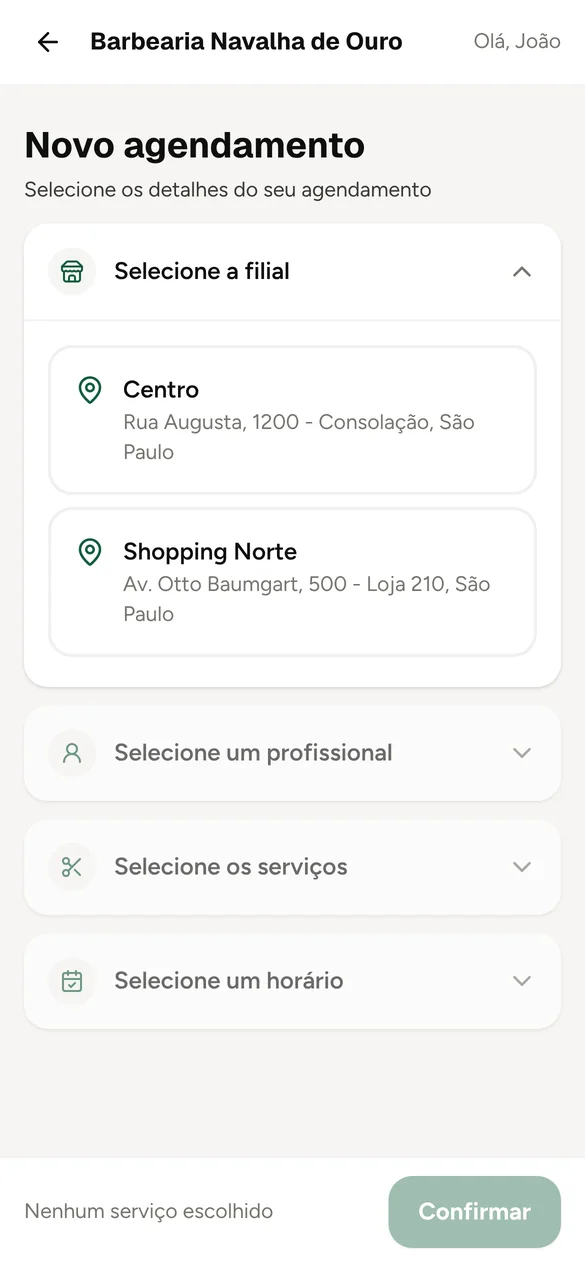
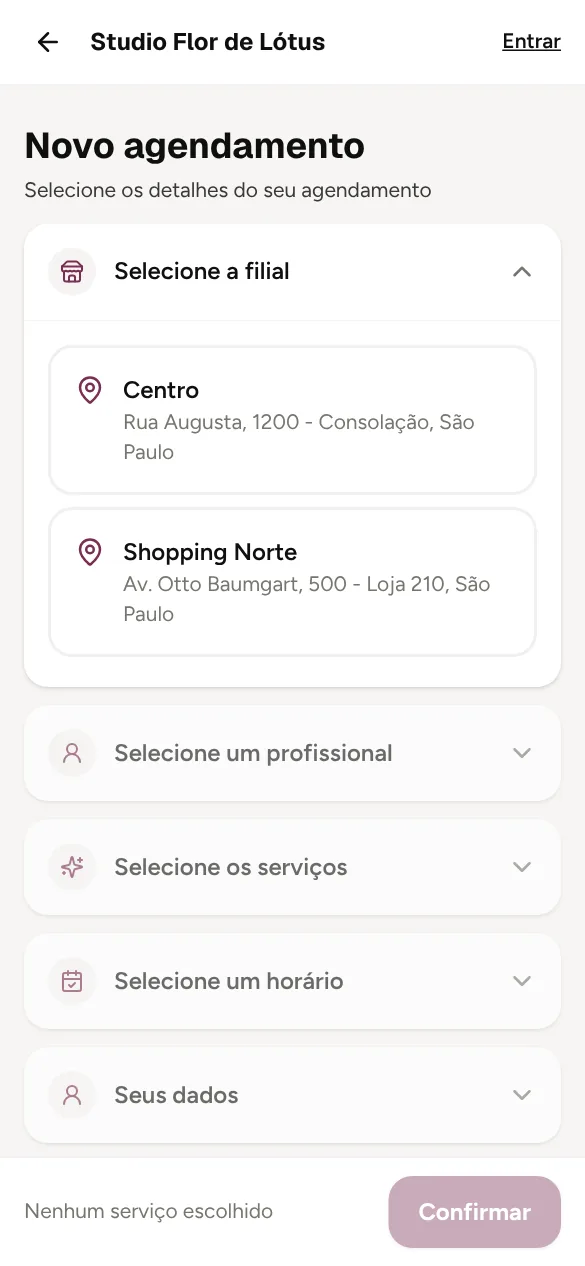
Identidade visual do Klareza Beauty: vinho rosé e símbolo K-pétala
- Paleta vinho rosé (#7a2e52 / #c4588a) no painel, na landing e na cor padrão dos salões
- Novo símbolo: K com braços em pétalas e um brilho (favicon, ícone do app, logo)
- Ícone de brilho no lugar da tesoura e faixa rosé no lugar do poste de barbearia
- Novas imagens da landing tiradas do sistema com os dados de salão
- Corrige concordância de "o salão" nas mensagens e na landing

Claude-Session: https://claude.ai/code/session_01JAAgPxZBPnePcSZkZjepc5

diff --git a/src/app/b/[slug]/agendar/Agendar.tsx b/src/app/b/[slug]/agendar/Agendar.tsx
@@ -2,7 +2,7 @@
 
 import Link from "next/link";
 import { useEffect, useMemo, useState, useTransition } from "react";
-import { CalendarCheck, CalendarPlus, Check, ChevronDown, Clock, MapPin, Scissors, Star, Store, UserRound } from "lucide-react";
+import { CalendarCheck, CalendarPlus, Check, ChevronDown, Clock, MapPin, Sparkles, Star, Store, UserRound } from "lucide-react";
 import { formatarDinheiro, linkWhatsApp } from "@/lib/formato";
 import { FUSO, criarDataHora } from "@/lib/tempo";
 import { type Confirmacao, agendar, buscarHorarios } from "../actions";
@@ -229,7 +229,7 @@ export function Agendar({
         </div>
       </Etapa>
 
-      <Etapa n={2} aberta={aberta === 2} feita={escolhidos.length > 0} bloqueada={profissionalId === null} icone={Scissors} titulo="Selecione os serviços" resumo={selecionados.length ? selecionados.map((s) => s.nome).join(", ") : null} abrir={() => profissionalId !== null && setAberta(2)}>
+      <Etapa n={2} aberta={aberta === 2} feita={escolhidos.length > 0} bloqueada={profissionalId === null} icone={Sparkles} titulo="Selecione os serviços" resumo={selecionados.length ? selecionados.map((s) => s.nome).join(", ") : null} abrir={() => profissionalId !== null && setAberta(2)}>
         <div className="space-y-2">
           {disponiveis.map((s) => {
             const marcado = escolhidos.includes(s.id);
@@ -370,7 +370,7 @@ export function Agendar({
 function Etapa({
   n, aberta, feita, bloqueada, icone: Icone, titulo, resumo, abrir, children,
 }: {
-  n: number; aberta: boolean; feita: boolean; bloqueada?: boolean; icone: typeof Scissors; titulo: string; resumo: string | null; abrir: () => void; children: React.ReactNode;
+  n: number; aberta: boolean; feita: boolean; bloqueada?: boolean; icone: typeof Sparkles; titulo: string; resumo: string | null; abrir: () => void; children: React.ReactNode;
 }) {
   return (
     <section className={`overflow-hidden rounded-2xl bg-white shadow-sm transition ${bloqueada ? "opacity-60" : ""}`}>
@@ -399,7 +399,7 @@ function CartaoProfissional({ nome, foto, destaque, selecionado, onClick }: { no
           <img src={foto} alt="" className="size-full object-cover" />
         ) : (
           <span className="grid size-full place-items-center bg-fundo text-couro-300">
-            {nome === "Sem preferência" ? <Scissors className="size-8" /> : <UserRound className="size-10" />}
+            {nome === "Sem preferência" ? <Sparkles className="size-8" /> : <UserRound className="size-10" />}
           </span>
         )}
         {destaque && (

diff --git a/src/app/page.tsx b/src/app/page.tsx
@@ -21,7 +21,7 @@ export const metadata: Metadata = {
     "Agendamento online, clube de assinatura com cobrança automática, comandas, caixa, estoque, financeiro e lembretes por WhatsApp. Tudo para o seu salão num lugar só.",
   openGraph: {
     title: "Klareza Beauty · Sistema para salões",
-    description: "O salão organizada de verdade: agenda online, clube de assinatura e o caixa batendo.",
+    description: "O salão organizado de verdade: agenda online, clube de assinatura e o caixa batendo.",
     type: "website",
     locale: "pt_BR",
     images: ["/landing/agenda.webp"],
@@ -98,7 +98,7 @@ export default async function Landing() {
         <p className="lp-surge font-mono text-xs tracking-wide text-[var(--lp-cinza)] uppercase" style={atraso(0)}>Sistema de gestão para salões</p>
         <h1 className="lp-titulo mt-6 text-[13vw] sm:text-[88px] lg:text-[112px]">
           <span className="lp-linha-mascara"><span style={atraso(0.05)}>O salão</span></span>
-          <span className="lp-linha-mascara"><span style={atraso(0.15)}>organizada</span></span>
+          <span className="lp-linha-mascara"><span style={atraso(0.15)}>organizado</span></span>
           <span className="lp-linha-mascara"><span style={atraso(0.25)}><span className="lp-serifa text-[var(--lp-verde)]">de verdade.</span></span></span>
         </h1>
         <div className="mt-10 flex flex-col gap-8 lg:flex-row lg:items-end lg:justify-between">
@@ -285,11 +285,11 @@ export default async function Landing() {
       <section className="bg-[var(--lp-tinta)] text-white">
         <div className="mx-auto max-w-7xl px-5 py-24 sm:py-36">
           <h2 data-revela className="lp-titulo text-[14vw] sm:text-[120px] lg:text-[150px]">
-            Bora <span className="lp-serifa text-[#7fc4a0]">conversar?</span>
+            Bora <span className="lp-serifa text-[#e7a3c3]">conversar?</span>
           </h2>
           <div data-revela style={atraso(0.15)} className="mt-10 flex flex-col gap-6 sm:flex-row sm:items-center sm:justify-between">
             <p className="max-w-md text-lg text-white/70">A gente mostra o sistema funcionando com os serviços e os preços do seu salão.</p>
-            <a href={demo} {...alvo} className="lp-btn bg-white px-8 py-4 text-base text-[var(--lp-tinta)] hover:bg-[#7fc4a0]">
+            <a href={demo} {...alvo} className="lp-btn bg-white px-8 py-4 text-base text-[var(--lp-tinta)] hover:bg-[#e7a3c3]">
               Falar no WhatsApp <ArrowUpRight className="size-5" />
             </a>
           </div>

diff --git a/src/app/marca/Simbolo.tsx b/src/app/marca/Simbolo.tsx
@@ -1,31 +1,35 @@
 /**
- * Símbolo do Klareza Beauty: um K em que as duas pernas são as lâminas de uma tesoura aberta,
- * presas num pino (o "parafuso" da tesoura). Só formas, sem fonte: escala de favicon a outdoor.
+ * Símbolo do Klareza Beauty: um K em que os dois braços são pétalas, com um brilho ao lado.
+ * Só formas, sem fonte: escala de favicon a outdoor.
  */
+export const SIMBOLO_FORMAS = {
+  haste: { x: 120, y: 106, width: 70, height: 300, rx: 35 },
+  petalaDeCima: "M196 252 Q337.5 236.4 392 104 Q253.5 123.6 196 252 Z",
+  petalaDeBaixo: "M196 262 Q334.5 281.9 384 412 Q245.5 390.1 196 262 Z",
+  brilho: "M418 222 Q418 256 452 256 Q418 256 418 290 Q418 256 384 256 Q418 256 418 222 Z",
+};
+
 export function Simbolo({ tamanho = 512, fundo = true, cor = "#ffffff", id = "s" }: { tamanho?: number; fundo?: boolean; cor?: string; id?: string }) {
+  const f = SIMBOLO_FORMAS;
   return (
     <svg width={tamanho} height={tamanho} viewBox="0 0 512 512" xmlns="http://www.w3.org/2000/svg" role="img" aria-label="Klareza Beauty">
       {fundo && (
         <>
           <defs>
             <linearGradient id={`${id}-g`} x1="0" y1="0" x2="1" y2="1">
-              <stop offset="0" stopColor="#23a06a" />
-              <stop offset="1" stopColor="#0d4029" />
+              <stop offset="0" stopColor="#c4588a" />
+              <stop offset="1" stopColor="#5e2140" />
             </linearGradient>
           </defs>
           <rect width="512" height="512" rx="118" fill={`url(#${id}-g)`} />
         </>
       )}
-      {/* haste do K */}
-      <rect x="126" y="106" width="66" height="300" rx="33" fill={cor} />
-      {/* lâmina de cima: costas retas, fio afinando até a ponta */}
-      <path d="M192 236 L380 104 C392 96 408 104 404 120 L238 288 Z" fill={cor} />
-      {/* lâmina de baixo até a argola da tesoura */}
-      <path d="M226 276 L320 356" stroke={cor} strokeWidth="54" strokeLinecap="round" />
-      <circle cx="358" cy="386" r="50" fill="none" stroke={cor} strokeWidth="30" />
-      {/* pino da tesoura, encostado na haste */}
-      <circle cx="216" cy="262" r="27" fill={cor} />
-      <circle cx="216" cy="262" r="10" fill={fundo ? "#145c3c" : "#0b0b0a"} />
+      <g transform="translate(-18 0)">
+        <rect {...f.haste} fill={cor} />
+        <path d={f.petalaDeCima} fill={cor} />
+        <path d={f.petalaDeBaixo} fill={cor} />
+        <path d={f.brilho} fill={cor} />
+      </g>
     </svg>
   );
 }

diff --git a/src/app/globals.css b/src/app/globals.css
@@ -4,21 +4,21 @@
   --font-sans: var(--fonte-texto), ui-sans-serif, system-ui, sans-serif;
   --font-display: var(--fonte-titulo), var(--fonte-texto), ui-sans-serif, sans-serif;
 
-  /* Paleta KlarezaBeauty: preto, branco e verde.
-     Os nomes antigos (couro = tons neutros escuros, latão = verde de destaque) foram mantidos. */
+  /* Paleta Klareza Beauty: preto, branco e vinho rosé.
+     Os nomes antigos (couro = tons neutros escuros, latão = cor de destaque, verde-claro = destaque sobre fundo escuro) foram mantidos. */
   --color-couro-950: #0b0b0a;
   --color-couro-900: #121211;
   --color-couro-800: #1f1f1d;
   --color-couro-700: #3a3a36;
   --color-couro-400: #77776f;
   --color-couro-300: #b3b3ab;
-  --color-latao-700: #0d4029;
-  --color-latao-600: #114d33;
-  --color-latao-500: #145c3c;
-  --color-latao-100: #e3efe8;
-  --color-latao-50: #f2f7f4;
-  --color-verde-claro: #7fc4a0;
-  --color-fundo: #f6f6f3;
+  --color-latao-700: #5e2140;
+  --color-latao-600: #6d2849;
+  --color-latao-500: #7a2e52;
+  --color-latao-100: #f6e3ec;
+  --color-latao-50: #fbf2f6;
+  --color-verde-claro: #e7a3c3;
+  --color-fundo: #f7f4f3;
   --color-tinta: #0f0f0e;
   --color-poste-vermelho: #c2412d;
   --color-poste-azul: #2f5d8a;
@@ -119,20 +119,17 @@
   @apply text-[11px] font-semibold tracking-[0.08em] text-couro-400 uppercase;
 }
 
-/* Assinatura visual: listras do poste de salao */
+/* Assinatura visual: faixa de brilho rosé (o nome "poste" ficou do KlarezaBarber) */
 @utility poste {
-  background-image: repeating-linear-gradient(
-    -45deg,
-    var(--color-poste-vermelho) 0 6px,
-    #fff 6px 10px,
-    var(--color-poste-azul) 10px 16px,
-    #fff 16px 20px
-  );
-  background-size: 28px 28px;
-  animation: girar-poste 1.6s linear infinite;
+  background-image: linear-gradient(-45deg, #7a2e52, #c4588a, #f2c4d6, #c4588a, #7a2e52);
+  background-size: 300% 300%;
+  animation: girar-poste 4s ease-in-out infinite alternate;
 }
 @keyframes girar-poste {
+  from {
+    background-position: 0% 50%;
+  }
   to {
-    background-position: 28px 0;
+    background-position: 100% 50%;
   }
 }

diff --git a/src/app/painel/comandas/[id]/page.tsx b/src/app/painel/comandas/[id]/page.tsx
@@ -1,7 +1,7 @@
 import type { Metadata } from "next";
 import Link from "next/link";
 import { notFound } from "next/navigation";
-import { AlertTriangle, Crown, MessageCircle, Package, Scissors, Ticket, Trash2 } from "lucide-react";
+import { AlertTriangle, Crown, MessageCircle, Package, Sparkles, Ticket, Trash2 } from "lucide-react";
 import { FormAcao } from "@/components/FormAcao";
 import { Cabecalho, Etiqueta, Secao } from "@/components/ui";
 import { alertasDaAnamnese, lerAnamnese } from "@/lib/anamnese";
@@ -109,7 +109,7 @@ export default async function Comanda({ params }: { params: Promise<{ id: string
                 {comanda.itens.map((i) => (
                   <li key={i.id} className="flex items-center gap-3 py-3">
                     <span className="grid size-9 shrink-0 place-items-center rounded-full bg-fundo text-couro-700">
-                      {i.tipo === "SERVICO" ? <Scissors className="size-4" /> : i.tipo === "PACOTE" ? <Ticket className="size-4" /> : <Package className="size-4" />}
+                      {i.tipo === "SERVICO" ? <Sparkles className="size-4" /> : i.tipo === "PACOTE" ? <Ticket className="size-4" /> : <Package className="size-4" />}
                     </span>
                     <div className="min-w-0 flex-1">
                       <p className="truncate font-medium">
@@ -166,7 +166,7 @@ export default async function Comanda({ params }: { params: Promise<{ id: string
                       {profissionais.map((b) => <option key={b.id} value={b.id}>Auxiliar: {b.nome} ({b.comissaoAuxiliarPct}%)</option>)}
                     </select>
                   )}
-                  <button className="btn-secundario"><Scissors className="size-4" /> Adicionar serviço</button>
+                  <button className="btn-secundario"><Sparkles className="size-4" /> Adicionar serviço</button>
                 </FormAcao>
               </Secao>
               <Secao titulo="Adicionar produto">

diff --git a/src/app/painel/servicos/page.tsx b/src/app/painel/servicos/page.tsx
@@ -1,6 +1,6 @@
 import type { Metadata } from "next";
 import Link from "next/link";
-import { Clock, EyeOff, Plus, Scissors } from "lucide-react";
+import { Clock, EyeOff, Plus, Sparkles } from "lucide-react";
 import { Avatar, Cabecalho, Etiqueta, Vazio } from "@/components/ui";
 import { exigirGestor } from "@/lib/auth";
 import { db } from "@/lib/db";
@@ -31,7 +31,7 @@ export default async function Servicos() {
         acoes={<Link href="/painel/servicos/novo" className="btn-destaque"><Plus className="size-4" /> Novo serviço</Link>}
       />
       {servicos.length === 0 && (
-        <Vazio icone={Scissors} titulo="Nenhum serviço cadastrado" texto="Comece pelos mais pedidos: manicure, design de sobrancelha e cílios." acao={<Link href="/painel/servicos/novo" className="btn-primario">Cadastrar serviço</Link>} />
+        <Vazio icone={Sparkles} titulo="Nenhum serviço cadastrado" texto="Comece pelos mais pedidos: manicure, design de sobrancelha e cílios." acao={<Link href="/painel/servicos/novo" className="btn-primario">Cadastrar serviço</Link>} />
       )}
 
       {categorias.map((cat) => (
@@ -44,7 +44,7 @@ export default async function Servicos() {
                   // eslint-disable-next-line @next/next/no-img-element
                   <img src={s.foto} alt="" className="size-20 shrink-0 rounded-xl object-cover" />
                 ) : (
-                  <span className="grid size-20 shrink-0 place-items-center rounded-xl bg-latao-50 text-latao-600"><Scissors className="size-7" /></span>
+                  <span className="grid size-20 shrink-0 place-items-center rounded-xl bg-latao-50 text-latao-600"><Sparkles className="size-7" /></span>
                 )}
                 <div className="min-w-0 flex-1">
                   <div className="flex items-start justify-between gap-2">

diff --git a/prisma/seed.ts b/prisma/seed.ts
@@ -14,14 +14,14 @@ function bannerSvg(fundo: string, destaque: string, titulo: string, sub: string)
 
 const DEMOS = [
   {
-    nome: "Studio Flor de Lótus", slug: "flor-de-lotus", email: "dono@flordelotus.com", cor: "#145c3c",
+    nome: "Studio Flor de Lótus", slug: "flor-de-lotus", email: "dono@flordelotus.com", cor: "#7a2e52",
     filiais: [
       { nome: "Centro", endereco: "Rua Augusta, 1200 - Consolação, São Paulo", profissionais: ["Carla Mendes", "Rafaela Lima"] },
       { nome: "Shopping Norte", endereco: "Av. Otto Baumgart, 500 - Loja 210, São Paulo", profissionais: ["Diana Souza"] },
     ],
   },
   {
-    nome: "Bella Lash & Nails", slug: "bella-lash", email: "dono@bellalash.com", cor: "#2f5d8a",
+    nome: "Bella Lash & Nails", slug: "bella-lash", email: "dono@bellalash.com", cor: "#6b4c9a",
     filiais: [{ nome: "Unidade principal", endereco: "Rua XV de Novembro, 300 - Centro", profissionais: ["Lúcia Prado", "Marta Rocha"] }],
   },
 ];
@@ -96,8 +96,8 @@ async function main() {
         usuarios: { create: { nome: "Renata", email: demo.email, senhaHash } },
         banners: {
           create: [
-            { imagem: bannerSvg("#121211", "#d6d6cf", "Mãos e pés", "R$ 75 · esmaltação em gel inclusa"), ordem: 0 },
-            { imagem: bannerSvg("#1f1f1d", "#d6d6cf", "Clube da beleza", "Escova e manicure por R$ 99,90/mês"), ordem: 1 },
+            { imagem: bannerSvg("#5e2140", "#f2b8cf", "Mãos e pés", "R$ 75 · esmaltação em gel inclusa"), ordem: 0 },
+            { imagem: bannerSvg("#2a1820", "#e7a3c3", "Clube da beleza", "Escova e manicure por R$ 99,90/mês"), ordem: 1 },
           ],
         },
         parceiros: {

diff --git a/src/app/icone/[tamanho]/route.tsx b/src/app/icone/[tamanho]/route.tsx
@@ -1,15 +1,23 @@
 import { ImageResponse } from "next/og";
+import { SIMBOLO_FORMAS as f } from "@/app/marca/Simbolo";
 
 const TAMANHOS = new Set([180, 192, 512]);
 
-/** Ícone do app do painel (Klareza Beauty): quadrado preto com o K branco. */
+/** Ícone do app do painel (Klareza Beauty): o símbolo K-pétala sobre o degradê vinho rosé. */
 export async function GET(_: Request, { params }: { params: Promise<{ tamanho: string }> }) {
   const n = Number((await params).tamanho);
   const t = TAMANHOS.has(n) ? n : 192;
   return new ImageResponse(
     (
-      <div style={{ width: t, height: t, display: "flex", alignItems: "center", justifyContent: "center", background: "#0f0f0e", color: "#ffffff", fontSize: t * 0.56, fontWeight: 800 }}>
-        K
+      <div style={{ width: t, height: t, display: "flex", background: "linear-gradient(135deg, #c4588a, #5e2140)" }}>
+        <svg width={t} height={t} viewBox="0 0 512 512">
+          <g transform="translate(-18 0)" fill="#ffffff">
+            <rect x={f.haste.x} y={f.haste.y} width={f.haste.width} height={f.haste.height} rx={f.haste.rx} />
+            <path d={f.petalaDeCima} />
+            <path d={f.petalaDeBaixo} />
+            <path d={f.brilho} />
+          </g>
+        </svg>
       </div>
     ),
     { width: t, height: t, headers: { "Cache-Control": "public, max-age=86400" } },

diff --git a/src/app/b/[slug]/conta/page.tsx b/src/app/b/[slug]/conta/page.tsx
@@ -8,7 +8,7 @@ import { db } from "@/lib/db";
 import { formatarDinheiro } from "@/lib/formato";
 import { planoDoCliente } from "@/lib/publico";
 import { CartaoAgendamento } from "./CartaoAgendamento";
-import { InstalarApp, LembretesNoCelular } from "@/components/AppDaSalao";
+import { InstalarApp, LembretesNoCelular } from "@/components/AppDoSalao";
 import { chavesVapid } from "@/lib/push";
 import { removerInscricaoPush, salvarInscricaoPush } from "./actions";
 
@@ -50,7 +50,7 @@ export default async function InicioCliente({ params }: { params: Promise<{ slug
       {b._count.parceiros > 0 && (
         <Link href={`/b/${slug}/conta/vantagens`} className="flex items-center justify-between gap-3 rounded-2xl bg-[var(--cor)] p-5 text-[var(--cor-texto)] shadow-sm" style={{ backgroundImage: "linear-gradient(110deg, transparent 40%, rgba(255,255,255,0.25))" }}>
           <span>
-            <span className="flex items-center gap-2 font-bold"><Gift className="size-5" /> Conheça o Clube de vantagens da {b.nome}</span>
+            <span className="flex items-center gap-2 font-bold"><Gift className="size-5" /> Conheça o Clube de vantagens do {b.nome}</span>
             <span className="text-sm opacity-90">e pegue seus cupons de desconto com os parceiros</span>
           </span>
           <ArrowRight className="size-5 shrink-0" />

diff --git a/src/app/painel/agendamentos/[id]/page.tsx b/src/app/painel/agendamentos/[id]/page.tsx
@@ -1,7 +1,7 @@
 import type { Metadata } from "next";
 import Link from "next/link";
 import { notFound } from "next/navigation";
-import { Ban, CalendarCheck, Check, Clock, MessageCircle, ReceiptText, Scissors, UserRound } from "lucide-react";
+import { Ban, CalendarCheck, Check, Clock, MessageCircle, ReceiptText, Sparkles, UserRound } from "lucide-react";
 import { BotaoWhatsApp } from "@/components/BotaoWhatsApp";
 import { FormAcao } from "@/components/FormAcao";
 import { Avatar, Cabecalho, Etiqueta, Secao } from "@/components/ui";
@@ -88,7 +88,7 @@ export default async function Agendamento({ params }: { params: Promise<{ id: st
         <div className="space-y-4">
           <Secao titulo="Detalhes">
             <dl className="grid gap-4 text-sm sm:grid-cols-2">
-              <Info icone={Scissors} rotulo="Serviço" valor={`${ag.servico.nome} · ${formatarDinheiro(ag.precoCentavos)}`} />
+              <Info icone={Sparkles} rotulo="Serviço" valor={`${ag.servico.nome} · ${formatarDinheiro(ag.precoCentavos)}`} />
               <Info icone={Clock} rotulo="Horário" valor={`${horaLocal(ag.inicio)} às ${horaLocal(ag.fim)}`} />
               <div className="flex items-center gap-3">
                 <Avatar nome={ag.profissional.nome} foto={ag.profissional.foto} tamanho={36} />

diff --git a/src/app/b/[slug]/conta/CartaoAgendamento.tsx b/src/app/b/[slug]/conta/CartaoAgendamento.tsx
@@ -1,5 +1,5 @@
 import Link from "next/link";
-import { Clock, MapPin, Scissors, UserRound } from "lucide-react";
+import { Clock, MapPin, Sparkles, UserRound } from "lucide-react";
 import { formatarDinheiro } from "@/lib/formato";
 import { diaLocal, formatarDiaExtenso, horaLocal } from "@/lib/tempo";
 
@@ -33,7 +33,7 @@ export function CartaoAgendamento({ a, slug }: { a: Atendimento; slug: string })
         </p>
         <span className={`text-xs font-semibold ${st.c}`}>{st.r}</span>
       </div>
-      <p className="mt-3 flex items-center gap-2 text-sm"><Scissors className="size-4 text-[var(--cor)]" /> {a.servicos.join(" + ")}</p>
+      <p className="mt-3 flex items-center gap-2 text-sm"><Sparkles className="size-4 text-[var(--cor)]" /> {a.servicos.join(" + ")}</p>
       <p className="mt-1.5 flex items-center gap-2 text-sm"><UserRound className="size-4 text-[var(--cor)]" /> {a.profissional}</p>
       {a.unidade && <p className="mt-1.5 flex items-center gap-2 text-sm"><MapPin className="size-4 text-[var(--cor)]" /> {a.unidade}</p>}
       <p className="mt-3 text-sm font-semibold">Total: {formatarDinheiro(a.total)}</p>

diff --git a/src/components/Marca.tsx b/src/components/Marca.tsx
@@ -1,11 +1,13 @@
+import { Simbolo } from "@/app/marca/Simbolo";
+
 /** Marca do sistema: Klareza Beauty. */
 export function Marca({ tamanho = "md", clara = false }: { tamanho?: "sm" | "md" | "lg"; clara?: boolean }) {
   const texto = { sm: "text-sm", md: "text-xl", lg: "text-3xl" }[tamanho];
-  const icone = { sm: "size-6 text-[11px] rounded-md", md: "size-9 text-base rounded-xl", lg: "size-12 text-xl rounded-2xl" }[tamanho];
+  const icone = { sm: 24, md: 36, lg: 48 }[tamanho];
   return (
     <span className="inline-flex items-center gap-2.5">
-      <span className={`grid shrink-0 place-items-center font-display font-bold ${clara ? "bg-white text-tinta" : "bg-tinta text-white"} ${icone}`} aria-hidden>
-        K
+      <span className="shrink-0" aria-hidden>
+        <Simbolo tamanho={icone} id={`marca-${tamanho}${clara ? "-c" : ""}`} />
       </span>
       <span className={`font-display font-bold tracking-tight ${texto} ${clara ? "text-white" : "text-tinta"}`}>
         Klareza<span className={clara ? "text-verde-claro" : "text-latao-500"}>Beauty</span>
